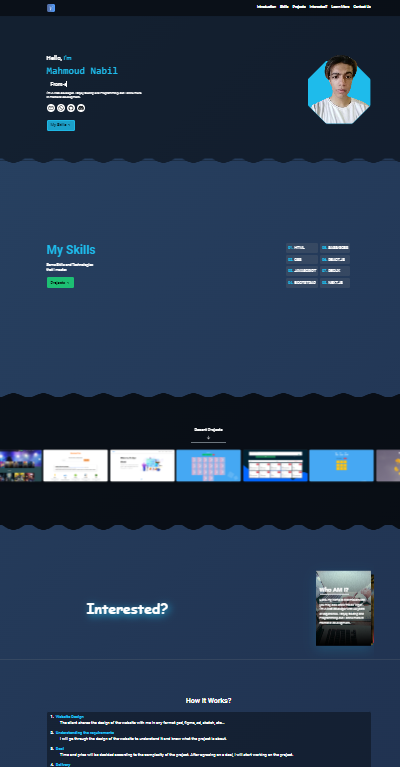
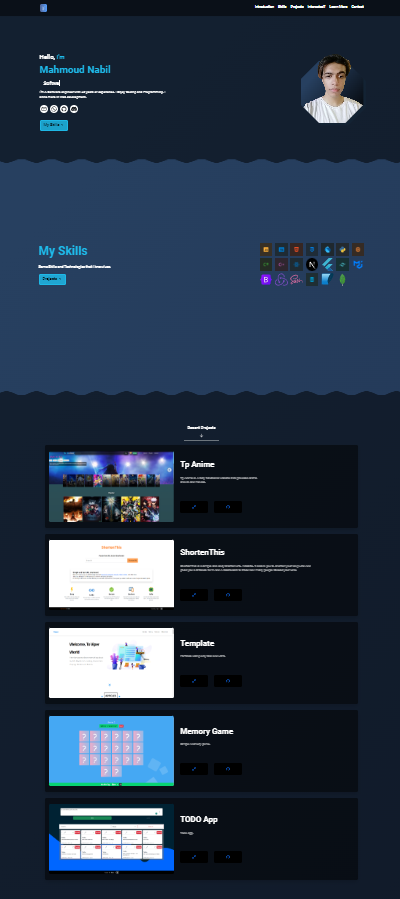
New Skills section + other UI chages

diff --git a/components/sections/Skills.tsx b/components/sections/Skills.tsx
@@ -7,56 +7,98 @@ import { Button } from 'react-bootstrap';
 import { MdKeyboardArrowDown } from 'react-icons/md';
 
 // Mui
-import { useMediaQuery } from '@mui/material';
+import { Tooltip, useMediaQuery } from '@mui/material';
 
 // Framer motion
 import { motion } from 'framer-motion'
 
+// Lib
+import ImageHolder from '@/lib/ImageHolder';
+
+// Data
+import skillsData from '@/data/skills.json'
+
+
 export default function Skills() {
     const [activeView, setActiveView] = useState(false);
 
-    const matchSm = useMediaQuery('(min-width: 576px)')
 
     return (
         <motion.section 
         id='skills'
-        className='container-fluid extra-space' 
+        className='container px-0 extra-space d-flex flex-column justify-content-between align-items-center gap-2' 
         onViewportEnter={() => setActiveView(true)}
         onViewportLeave={() => setActiveView(false)}
         >
-            <div className='container overflow-hidden d-flex flex-column flex-md-row justify-content-between align-items-center py-5 rounded gap-5'>
-
+            <div className='container overflow-hidden d-flex flex-column flex-md-row justify-content-between align-items-center py-5 px-md-3 rounded gap-5'>
                 <motion.div 
                 className='d-flex flex-column justify-content-center align-items-center align-items-md-start gap-3'
                 initial={{y: "-100vh"}}
                 animate={activeView ? {y:0} : {y: "-100vh"}}
                 transition={{duration: 0.5}}
+                viewport={{once: true}}
                 >
                     <h2 className='text-info fw-bold display-5'>My Skills</h2>
-                    <p style={{fontSize: '14px'}} className='w-75 text-center text-md-start p-0 m-0 '>Some Skills and Technologies that I master.</p>
-                    <Button style={{cursor: "pointer"}} onClick={() => document?.querySelector('#projects')?.scrollIntoView({behavior: 'smooth'})} variant="success">Projects <MdKeyboardArrowDown /></Button>
+                    <p style={{fontSize: '14px'}} className='w-auto text-center text-md-start p-0 m-0 '>
+                        Some Skills and Technologies that I know/use.
+                    </p>
+                    <Button style={{cursor: "pointer"}} onClick={() => document?.querySelector('#projects')?.scrollIntoView({behavior: 'smooth'})} variant="info">Projects <MdKeyboardArrowDown /></Button>
                 </motion.div>
 
-                <motion.div style={{maxWidth: '420px', fontSize: matchSm ? '15px' : '10px'}} 
+                <motion.div style={{maxWidth: '420px'}} 
                 className='flex-wrap w-100 d-flex flex-row justify-content-center align-items-center gap-2'
+                initial={{y: "-100vh"}}
+                animate={activeView ? {y:0} : {y: "-100vh"}}
+                transition={{duration: 0.5}}
+                viewport={{once: true}}
+                >
+                    <ul style={{display: "grid", gap: "10px", gridTemplateColumns: "repeat(auto-fill, minmax(50px, 1fr))", justifyContent: "center", alignItems: "center"}} className=''>
+                        {
+                            skillsData?.data.length > 0 ?
+                            skillsData.data.map((item, index) => (
+                                <Tooltip 
+                                key={item.name || index} 
+                                title={
+                                <div className='d-flex flex-column justify-content-between align-items-center gap-1 px-1 py-1'>
+                                    <p className='p-0 m-0 fw-bold text-uppercase'>{item.name}</p>
+                                    <span className='p-0 m-0 text-capitalize text-success'>{item.state}</span>
+                                </div>
+                                } 
+                                arrow
+                                >
+                                    <div>
+                                        <ImageHolder image={item.icon} title={item.name || "Skill image"} pointer hover />
+                                    </div>
+                                </Tooltip>
+                            )) :
+                            <div className="text-danger fw-bold fs-3 text-nowrap">No skills!</div>
+                        }
+                    </ul>
+                </motion.div>
+            </div>
+
+            <hr style={{height: "1px"}} className='w-100 bg-secondary bg-opacity-25' />
+
+            <div className='container overflow-hidden d-flex flex-column flex-md-row justify-content-between align-items-center py-5 px-md-3 rounded gap-3 gap-md-5'>
+                <motion.h2
+                    className='text-info fw-bold display-5'
+                    initial={{y: "100vh"}}
+                    animate={activeView ? {y:0} : {y: "100vh"}}
+                    transition={{delay: 0.2, duration: 0.8}}
+                    viewport={{once: true}}
+                >
+                    GitHub Contributions
+                </motion.h2>
+
+                <motion.div 
+                style={{maxWidth: '420px', maxHeight: "130px"}} 
+                className='rounded overflow-hidden flex-wrap w-100 d-flex flex-row justify-content-center align-items-center gap-2'
                 initial={{y: "100vh"}}
                 animate={activeView ? {y:0} : {y: "100vh"}}
                 transition={{delay: 0.2, duration: 0.8}}
+                viewport={{once: true}}
                 >
-                    <ul className='d-flex flex-column justify-content-center align-items-center gap-2'>
-                        {
-                            ['html', 'css', 'javascript', 'bootstrap'].map((items, index) => (
-                                <li key={items || index} className='opacity-hover w-100 bg-secondary bg-opacity-25 text-center text-md-start p-3 p-md-2 rounded text-uppercase'><span className='fw-bold text-info'>0{index + 1}.</span> {items}</li>
-                            ))
-                        }
-                    </ul>
-                    <ul className='d-flex flex-column justify-content-center align-items-center gap-2'>
-                        {
-                            ['sass/scss', 'react.js', 'redux', 'next.js'].map((items, index) => (
-                                <li key={items || index} className='opacity-hover w-100 bg-secondary bg-opacity-25 text-center text-md-start p-3 p-md-2 rounded text-uppercase'><span className='fw-bold text-info'>0{index + 5}.</span> {items}</li>
-                            ))
-                        }
-                    </ul>
+                    <ImageHolder image={'./images/github-contributions.png'} title={"GitHub Contributions"} select />
                 </motion.div>
             </div>
         </motion.section>

diff --git a/components/sections/Learnmore.tsx b/components/sections/Learnmore.tsx
@@ -19,12 +19,12 @@ export default function Learnmore() {
     return (
         <section 
         id='learn-more'
-        className='space container d-flex flex-column text-center justify-content-center align-items-center gap-3' 
+        className='space container d-flex flex-column text-center justify-content-center align-items-center gap-4' 
         >
             <h3 className='hover-effect fw-bold'>How It Works?</h3>
 
             <motion.ol 
-            className="list-group list-group-numbered text-start w-100"
+            className="list-group list-group-numbered text-start w-100 mb-4"
             initial={{rowGap: 0}}
             whileInView={{rowGap: "20px"}}
             transition={{duration: 0.8, delay: 0.5}}
@@ -32,25 +32,33 @@ export default function Learnmore() {
                 <li className="list-group-item d-flex justify-content-between align-items-start">
                     <div className="me-auto">
                         <div className="text-info ms-2 fw-bold">Website Design</div>
-                        <p className='p-0 m-0 ms-4'>The client shares the design of the website with me in any format psd, figma, xd, sketch, etc...</p>
+                        <p className='p-0 m-0 ms-4'>
+                            The client shares the design of the website with me in any format Psd, Figma, xd, sketch or even a PNG picture.
+                        </p>
                     </div>
                 </li>
                 <li className="list-group-item d-flex justify-content-between align-items-start">
                     <div className="me-auto">
                         <div className="text-info ms-2 fw-bold">Understanding the requirements</div>
-                        <p className='p-0 m-0 ms-4'>I will go through the design of the website to understand it and know what the project is about.</p>
+                        <p className='p-0 m-0 ms-4'>
+                            I will go through the website&#39;s design to understand it and know what the project is about.
+                        </p>
                     </div>
                 </li>
                 <li className="list-group-item d-flex justify-content-between align-items-start">
                     <div className="me-auto">
                         <div className="text-info ms-2 fw-bold">Deal</div>
-                        <p className='p-0 m-0 ms-4'>Time and price will be decided according to the complexity of the project. After agreeing on a deal, I will start working on the project.</p>
+                        <p className='p-0 m-0 ms-4'>
+                            Time and price will be decided according to the complexity of the project. After agreeing on a deal, I will start working on the project.
+                        </p>
                     </div>
                 </li>
                 <li className="list-group-item d-flex justify-content-between align-items-start">
                     <div className="me-auto">
                         <div className="text-info ms-2 fw-bold">Delivery</div>
-                        <p className='p-0 m-0 ms-4'>The project will be completed and delivered within the agreed time.</p>
+                        <p className='p-0 m-0 ms-4'>
+                            The project will be completed and delivered within the agreed time.
+                        </p>
                     </div>
                 </li>
             </motion.ol>

diff --git a/components/sections/Introduction.tsx b/components/sections/Introduction.tsx
@@ -71,7 +71,9 @@ export default function Introduction() {
                     <p className='p-0 m-0 fw-bold fs-4'>Hello, <span className='text-info'>I&#39;m</span></p>
                     <h1 className='fw-bolder text-info'>Mahmoud Nabil</h1>
                     <h4 style={{fontSize: '20px'}} className='introduction-text-animation border-end border-2 border-white overflow-hidden text-nowrap ps-3 fw-bold'>{title}</h4>
-                    <p style={{fontSize: '12px'}} className='w-75 text-center text-md-start p-0 m-0'>I&#39;m A Software engineer with +5 years of experience. I Enjoy Coding and Programming, but I shine more in Web development.</p>
+                    <p style={{fontSize: '13px'}} className='w-75 text-center text-md-start p-0 m-0'>
+                        I&#39;m A Software engineer with +5 years of experience. I Enjoy Coding and Programming, I shine more in Web development.
+                    </p>
                     <div className='introduction-links-container d-flex flex-row justify-content-center aglin-items-center gap-2'>
                         <Tooltip title='Gmail' arrow>
                             <Link className='text-center fs-2 overflow-hidden' href={process.env.NEXT_PUBLIC_EMAIL as string} target='_blank'>
@@ -111,7 +113,7 @@ export default function Introduction() {
                     <Tilt options={defaultOptions} style={{width: '250px', height: '250px'}} className='position-relative'>
                         <div style={{background: 'var(--main-color-shadow)', top: '10px', left: "10px", filter: 'blur(270px)'}} className='introduction-image-shadow w-100 h-100 position-absolute'></div>
                         <div className='introduction-image-overlay w-100 h-100 start-50 translate-middle-x position-absolute'></div>
-                        <img style={{objectFit: 'cover', height: '350px'}} className='introduction-image remove-selecting w-100 position-absolute bottom-0' src={'./images/me-photo.png'} height={720} width={1080} alt='Image' />
+                        <img style={{objectFit: 'cover', height: '350px'}} className='introduction-image remove-selecting w-100 position-absolute bottom-0' src={'./images/personal-photo.png'} height={720} width={1080} alt='Image' />
                     </Tilt>
                 </motion.div>
             </div>

diff --git a/lib/ImageHolder.tsx b/lib/ImageHolder.tsx
@@ -1,14 +1,28 @@
 import React from 'react'
 
 type ImageHolderProps = {
-    image?: string | null,
-    title?: string
+    image?: string,
+    title?: string,
+    pointer?: boolean,
+    hover?: boolean,
+    select?: boolean
 }
 
-export default function ImageHolder({image, title}: ImageHolderProps) {
+export default function ImageHolder({ image, title, pointer, hover, select }: ImageHolderProps) {
 
     // style={{objectFit: 'cover'}}
     return (
-        <img className='img-fluid remove-selecting' src={image || './images/placeholder2.png'}  alt={title || "Image placeholder"} />
+        // eslint-disable-next-line @next/next/no-img-element
+        <img 
+        onError={(e) => {
+            e.currentTarget.src = './images/placeholder2.png';
+            e.currentTarget.onerror = null
+        }} 
+        className={`img-fluid h-100 ${select ? "" : "remove-selecting"} ${hover ? "opacity-hover" : ""}`}
+        style={{cursor: pointer ? "pointer" : "auto"}}
+        src={image}  
+        title={title} 
+        alt={title || "Image placeholder"} 
+        />
     )
 }

diff --git a/components/containers/ProjectContainer.tsx b/components/containers/ProjectContainer.tsx
@@ -31,13 +31,13 @@ export default function ProjectContainer({name, image, link, repo, description}:
         initial={{y: "100px", opacity: 0}}
         whileInView={{y: 0, opacity: 1}}
         transition={{duration: 0.5}}
-        // viewport={{once: true}}
+        viewport={{once: true}}
         >
             <Link 
             href={link || "#"} target='_blank'
             style={{maxWidth: '500px'}}  
-            className='opacity-hover rounded overflow-hidden my-0 my-md-4'>
-                <ImageHolder image={image} title={name || "Project image"} />
+            className='rounded overflow-hidden my-0 my-md-4 ms-md-3'>
+                <ImageHolder image={image} title={name || "Project image"} pointer hover />
             </Link>
             <div className='overflow-hidden d-flex flex-column justify-content-center justify-content-md-between algin-items-center gap-3 px-2 pb-3 pb-md-0 text-center text-md-start'>
                 <motion.h2 

diff --git a/components/sections/Contact.tsx b/components/sections/Contact.tsx
@@ -59,6 +59,9 @@ export default function ContactUs() {
                 console.log(result.text)
                 toastifySuccess(result.text)
                 setLoadingButton(false)
+                e.target[0].value = "";
+                e.target[1].value = "";
+                e.target[2].value = "";
             }, (error) => {
                 console.log(error.text)
                 toastifyError(error.text)
@@ -82,7 +85,7 @@ export default function ContactUs() {
     return (
         <motion.section 
         id='contact-us'
-        className='extra-space bg-black bg-opacity-25 mb-0 container-fluid d-flex flex-column text-center justify-content-center align-items-center gap-3' 
+        className='extra-space bg-black px-0 bg-opacity-25 mb-0 container-fluid d-flex flex-column text-center justify-content-center align-items-center gap-3' 
         initial={{opacity: 0}}
         whileInView={{opacity: 1}}
         transition={{duration: 1.2}}

diff --git a/components/Dashboard.tsx b/components/Dashboard.tsx
@@ -64,9 +64,14 @@ export default function Dashboard() {
                     // },
                 })
                 if(data?.error){
-                    toastifyError(data.error || "Something went wrong!")
+                    toastifyError(data.error || "Something went wrong!");
                 }else{
-                    toastifySuccess("Project created successfully")
+                    toastifySuccess("Project created successfully");
+                    e.target[0].value = "";
+                    e.target[1].value = "";
+                    e.target[2].value = "";
+                    e.target[3].value = "";
+                    e.target[4].value = "";
                 }
             }catch(err: any){
                 console.log(err.message || "Something went wrong!")

diff --git a/components/sections/Projects.tsx b/components/sections/Projects.tsx
@@ -38,7 +38,7 @@ export default function Projects() {
     return (
         <section 
         id='projects'
-        className='extra-space bg-black bg-opacity-50 top-bottom-pattren-box overflow-hidden container-fluid d-flex flex-column justify-content-center align-items-center gap-3' 
+        className='extra-space bg-black bg-opacity-50 top-bottom-pattren-box overflow-hidden container-fluid d-flex flex-column justify-content-center align-items-center gap-5' 
         >
             <div 
             onClick={() => document?.querySelector('#projects')?.scrollIntoView({behavior: 'smooth'})} 

diff --git a/components/sections/Interested.tsx b/components/sections/Interested.tsx
@@ -16,7 +16,7 @@ import 'swiper/css';
 import "swiper/css/effect-cards";
 
 // Data
-import interestedData from '../../data/interested.json'
+import interestedData from '@/data/interested.json'
 
 // Framer motion
 import { motion } from 'framer-motion'

diff --git a/README.md b/README.md
@@ -1,9 +1,10 @@
 ## Portfolio
-Official Website [xvpc.dev](https://xvpc.dev)
 
 <a href="https://xvpc.dev" target="_blank" title="https://xvpc.dev">
     <img src="./public/favicon/android-chrome-512x512.png" width="140" height="140" alt='Site Icon'>
 </a>
+
+[https://xvpc.dev](https://xvpc.dev)
 
 
 ### Technologies
@@ -37,3 +38,5 @@ Background:
 
 CSS Patterns:
 [css-generators.com](https://css-generators.com)
+
+Language Icons that in the skills are publicly searchable -> Check skills.json.
